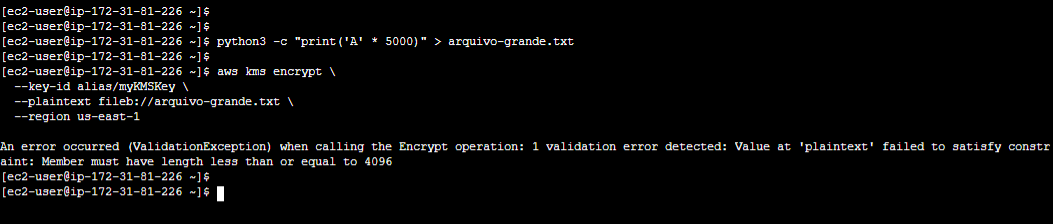
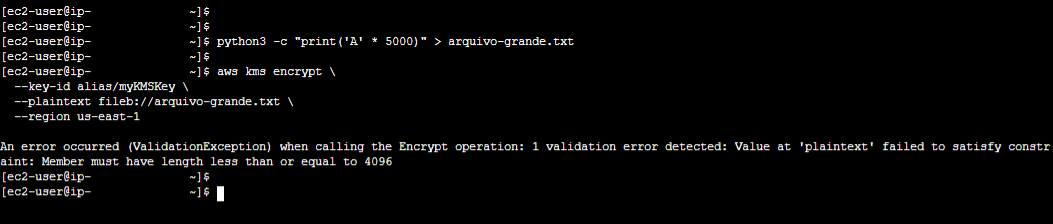
Remove IP privado dos prints do lab 01 e simplifica diagramas de fluxo no lab 04

Changed region(s): [[0.0912, 0.0938, 0.1823, 0.3438], [0.0912, 0.75, 0.1823, 0.875], [0.0912, 0.0312, 0.1823, 0.0625]]

diff --git a/04-monitoramento-rotacao/docs/02-arquitetura.md b/04-monitoramento-rotacao/docs/02-arquitetura.md
@@ -20,10 +20,6 @@ A partir dessa mesma origem, o laboratório segue por dois caminhos:
 
 ### Caminho 1: EventBridge + SNS
 
-```
-Rotação → CloudTrail → EventBridge (regra) → SNS → Email
-```
-
 Uma regra do EventBridge filtra o evento `RotateKeyOnDemand` e o encaminha para um tópico SNS, que realiza a entrega por email.
 
 > **Quando usar:** quando a prioridade é reagir a um evento específico, gerar uma notificação imediata ou iniciar uma ação automaticamente.
@@ -31,10 +27,6 @@ Uma regra do EventBridge filtra o evento `RotateKeyOnDemand` e o encaminha para 
 ![Arquitetura do Caminho 1: EventBridge + SNS](assets/arquitetura-caminho-1.png)
 
 ### Caminho 2: CloudWatch Metric Filter + Alarme
-
-```
-Rotação → CloudTrail → Log Group → Metric Filter → Métrica → Alarme → SNS → Email
-```
 
 Nesse fluxo, a trilha do CloudTrail entrega os logs para um **Log Group do CloudWatch**. Um *metric filter* identifica o evento de rotação e transforma suas ocorrências em uma métrica. A partir dela, um alarme pode ser configurado para disparar quando um determinado limite for atingido.
 
